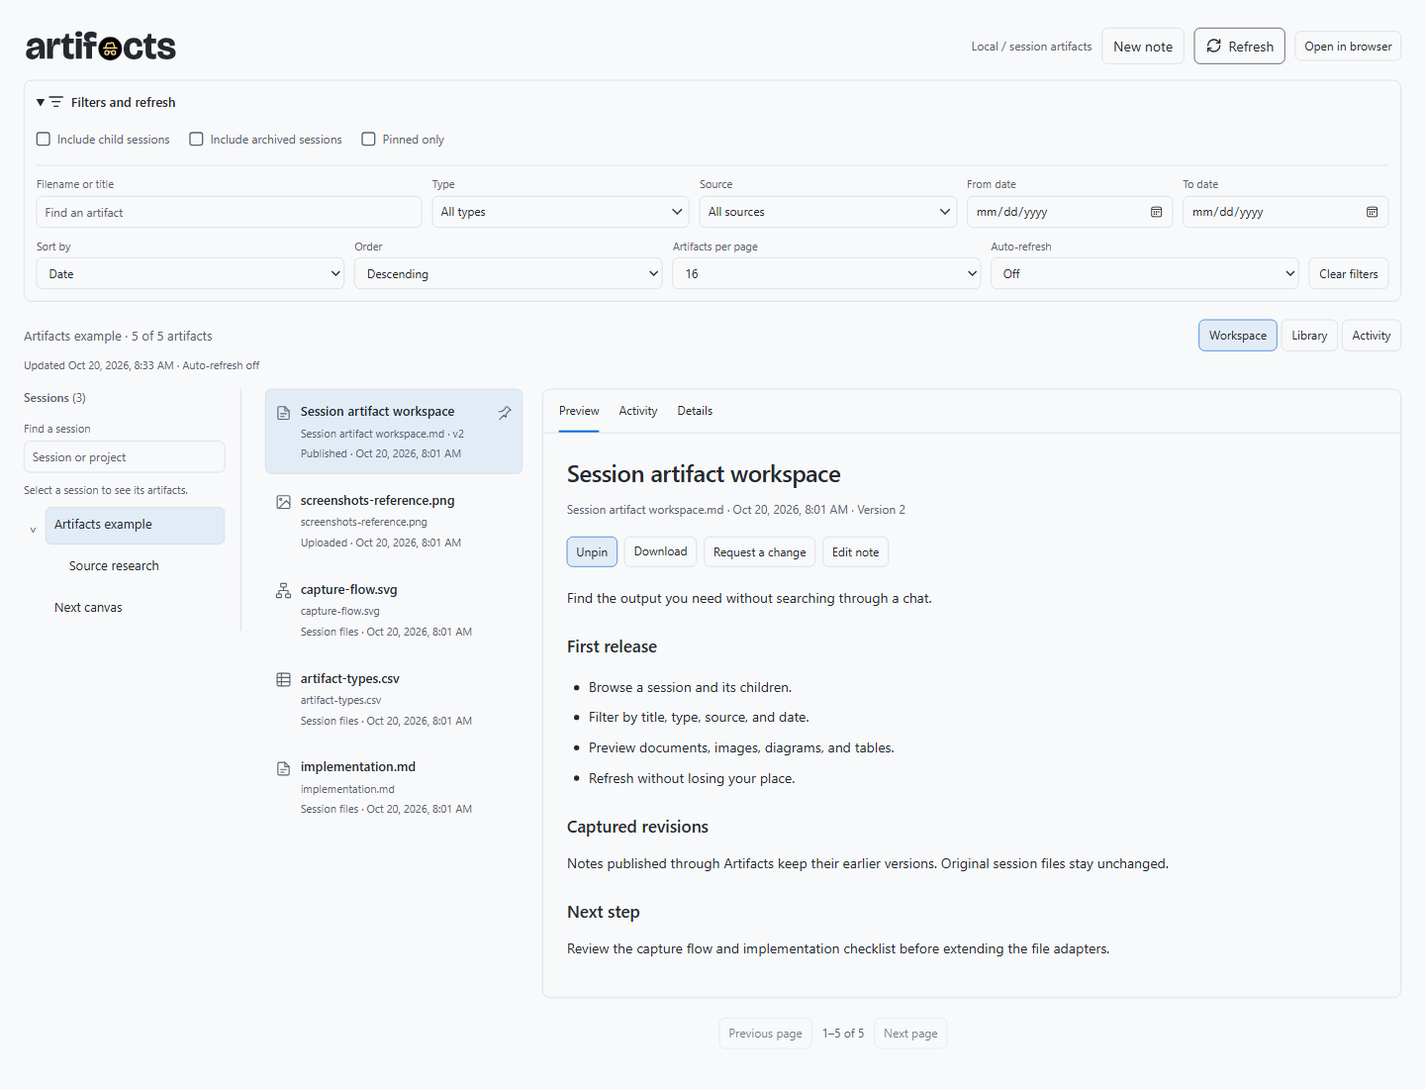
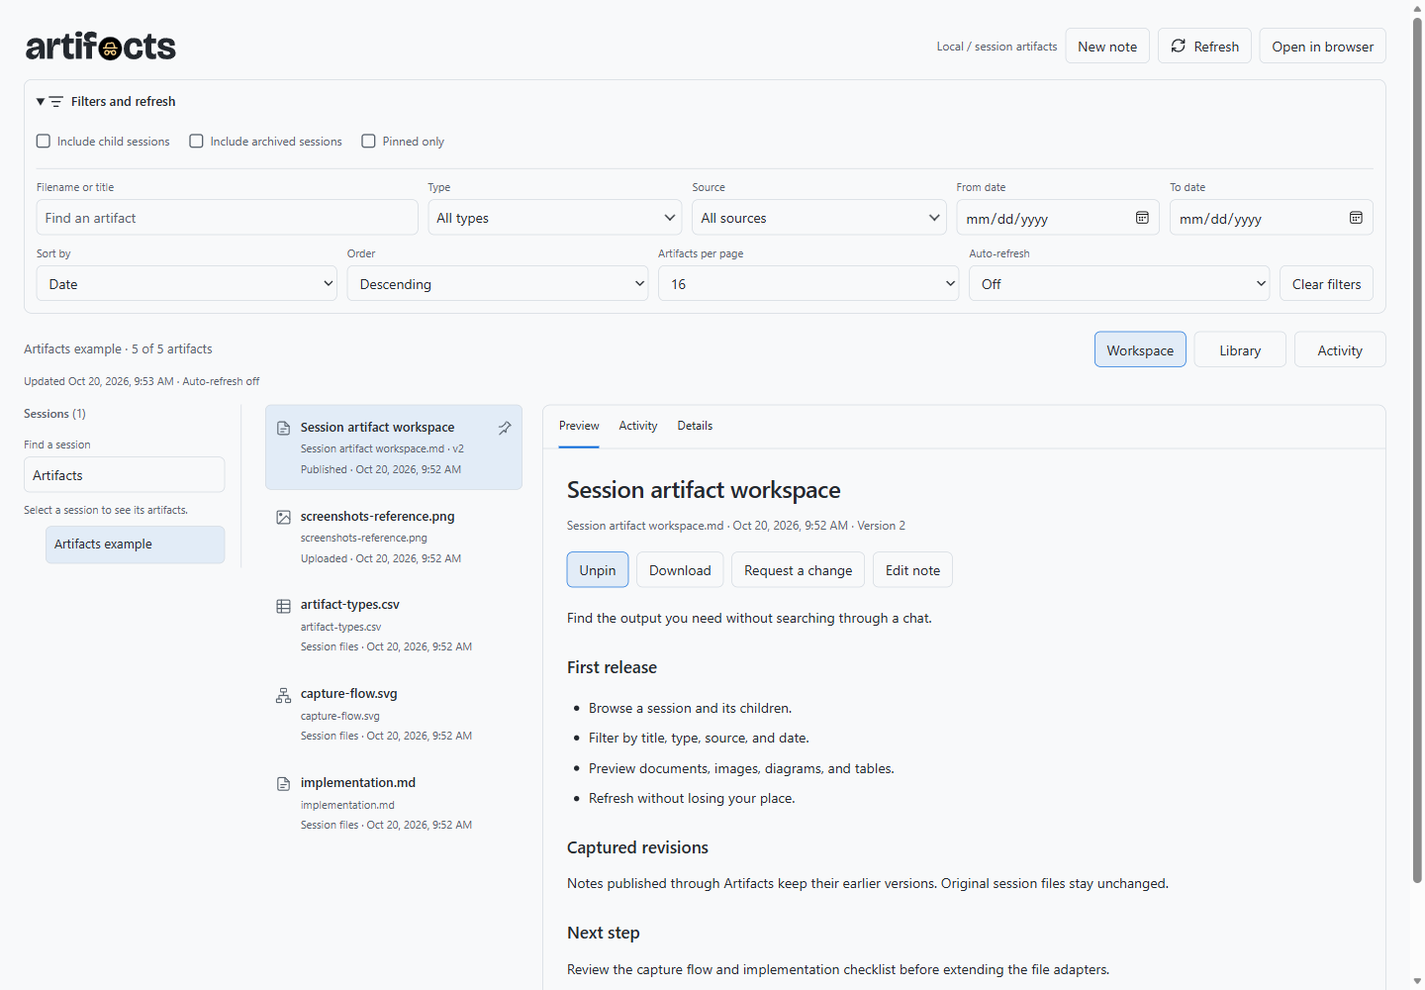
Unify Artifacts action control proportions
Copilot-Session: bf83cfd4-9425-4836-802c-3192a181469b

diff --git a/apps/artifacts/style.css b/apps/artifacts/style.css
@@ -9,6 +9,11 @@
     --hover: color-mix(in srgb, var(--ink) 5%, var(--surface));
     --selected: color-mix(in srgb, var(--accent) 9%, var(--surface));
     --paper: color-mix(in srgb, var(--surface) 97%, var(--ink));
+    --control-height: 36px;
+    --control-font-size: var(--text-body-medium, 14px);
+    --control-padding-x: 12px;
+    --control-radius: 6px;
+    --control-gap: 8px;
 }
 @media (prefers-color-scheme: dark) {
     :root { --surface: var(--background-color-default, #1b1e22); --ink: var(--text-color-default, #e4e8ec); --muted: var(--text-color-muted, #a0a9b4); --edge: var(--border-color-default, #454d57); --accent: var(--color-focus-outline, #75b5ff); --error: var(--true-color-red, #ef9c9c); }
@@ -29,15 +34,21 @@ h3 { font-size: 14px; font-weight: 600; }
 .browser-status { margin: 8px 0; overflow-wrap: anywhere; }
 button, input, select, textarea { font: inherit; color: inherit; }
 button, .download-link { border: 1px solid var(--edge); border-radius: 6px; background: var(--surface); padding: 7px 11px; cursor: pointer; white-space: nowrap; min-height: 34px; color: var(--ink); text-decoration: none; }
+button.control-button, a.control-button {
+    display: inline-flex; align-items: center; justify-content: center; gap: var(--control-gap);
+    height: var(--control-height); min-height: var(--control-height); min-width: var(--control-height);
+    padding: 0 var(--control-padding-x); font-size: var(--control-font-size); font-weight: 400;
+    line-height: var(--leading-body-medium, 20px); border-radius: var(--control-radius);
+    border: 1px solid var(--edge); background: var(--surface); color: var(--ink); white-space: nowrap;
+}
+.header-actions, .control-actions, .view-switch, .reader-actions, .pagination, .dialog-actions, .picker-search-row, .picker-footer, .image-tools { gap: var(--control-gap); }
 button:hover, .download-link:hover { background: var(--hover); }
 button:active { transform: translateY(1px); }
 button:disabled { opacity: .6; cursor: default; }
 button:focus-visible, a:focus-visible, input:focus-visible, select:focus-visible, textarea:focus-visible, summary:focus-visible { outline: 2px solid var(--accent); outline-offset: 3px; }
 button[aria-pressed="true"] { background: var(--selected); border-color: var(--accent); }
-#refresh, #save-note { border-color: var(--ink); }
-#open-browser { font-size: 12px; min-height: 30px; padding: 4px 9px; }
 input:not([type="checkbox"]), select, textarea { width: 100%; min-width: 0; padding: 4px 8px; border: 1px solid var(--edge); border-radius: 6px; background: var(--surface); }
-input:not([type="checkbox"]), select { height: 32px; font-size: 12px; }
+input:not([type="checkbox"]), select { height: var(--control-height); font-size: var(--control-font-size); line-height: var(--leading-body-medium, 20px); }
 input::placeholder, textarea::placeholder { color: var(--muted); opacity: 1; }
 .field { min-width: 0; }
 .field > label { display: block; color: var(--muted); font-size: 11px; margin-bottom: 4px; }
@@ -49,16 +60,15 @@ input::placeholder, textarea::placeholder { color: var(--muted); opacity: 1; }
 .artifact-controls { grid-template-columns: minmax(180px, 1.5fr) repeat(2, minmax(125px, 1fr)) repeat(2, minmax(125px, .8fr)); }
 .display-controls { grid-template-columns: repeat(4, minmax(105px, 1fr)) auto; }
 .session-controls { display: flex; flex-wrap: wrap; gap: 8px 20px; padding-bottom: 10px; margin-bottom: 10px; border-bottom: 1px solid var(--edge); }
-.check-filter { display: flex; align-items: center; gap: 7px; min-height: 32px; font-size: 12px; color: var(--muted); cursor: pointer; }
+.check-filter { display: flex; align-items: center; gap: 7px; min-height: var(--control-height); font-size: 12px; color: var(--muted); cursor: pointer; }
 .check-filter input { appearance: none; display: grid; place-content: center; flex: 0 0 14px; width: 14px; height: 14px; margin: 0; border: 1.5px solid var(--muted); border-radius: 3px; background: transparent; cursor: pointer; }
 .check-filter input:checked { border-color: var(--accent); }
 .check-filter input:checked::before { content: ""; width: 4px; height: 7px; border: solid var(--accent); border-width: 0 1.5px 1.5px 0; transform: translateY(-1px) rotate(45deg); }
-.field .multi-select > summary { min-height: 32px; padding: 4px 8px; font-size: 12px; line-height: 22px; }
+.field .multi-select > summary { height: var(--control-height); min-height: var(--control-height); padding: 0 8px; font-size: var(--control-font-size); line-height: var(--leading-body-medium, 20px); }
 .control-actions { justify-self: end; }
-.control-actions button, .view-switch button { font-size: 12px; min-height: 32px; padding: 5px 10px; }
 .overview { flex-wrap: wrap; margin: 18px 0 6px; color: var(--muted); font-size: 13px; }
 .overview p { margin: 0; }
-.view-switch { gap: 4px; }
+.view-switch { display: inline-grid; grid-template-columns: repeat(3, minmax(0, 1fr)); max-width: 100%; }
 #sync { min-height: 18px; margin: 0 0 14px; font-size: 11px; }
 .notice { padding: 10px 12px; border: 1px solid var(--edge); border-radius: 6px; font-size: 12px; overflow-wrap: anywhere; margin: 10px 0; }
 .notice summary { cursor: pointer; }
@@ -80,18 +90,16 @@ input::placeholder, textarea::placeholder { color: var(--muted); opacity: 1; }
 .session-meta { display: block; font-size: 11px; color: var(--muted); margin-top: 3px; overflow-wrap: anywhere; }
 .artifact-area { min-width: 0; }
 .compact-picker { display: none; margin-bottom: 14px; }
-#session-picker { display: flex; align-items: center; gap: 10px; width: 100%; min-width: 0; min-height: 36px; text-align: left; font-size: 13px; }
+#session-picker { width: 100%; min-width: 0; text-align: left; }
 #session-picker-value { flex: 1; min-width: 0; overflow: hidden; text-overflow: ellipsis; white-space: nowrap; }
 #session-picker::after { content: ""; flex: 0 0 6px; width: 6px; height: 6px; border-right: 1.5px solid var(--muted); border-bottom: 1.5px solid var(--muted); transform: translateY(-2px) rotate(45deg); }
 #session-picker[aria-expanded="true"]::after { transform: translateY(2px) rotate(225deg); }
 .session-popover { position: fixed; z-index: 20; display: flex; flex-direction: column; width: 320px; max-height: 480px; min-height: 0; overflow: hidden; color: var(--ink); background: var(--surface); border: 1px solid var(--edge); border-radius: 8px; box-shadow: 0 8px 28px #0003; }
 .picker-head, .picker-footer { flex: 0 0 auto; padding: 12px; }
 .picker-head { border-bottom: 1px solid var(--edge); }
-.picker-search-row { display: flex; align-items: center; gap: 8px; }
-.picker-search-row input { min-height: 36px; font-size: 13px; }
-.picker-search-row button, .picker-footer button { min-height: 34px; font-size: 12px; }
+.picker-search-row { display: flex; align-items: center; }
 #session-picker-count { margin: 8px 0 0; font-size: 12px; color: var(--muted); }
-.picker-footer { display: flex; flex-wrap: wrap; justify-content: space-between; gap: 8px; border-top: 1px solid var(--edge); }
+.picker-footer { display: flex; flex-wrap: wrap; justify-content: space-between; border-top: 1px solid var(--edge); }
 #session-options { position: relative; flex: 1 1 auto; min-height: 0; padding: 4px; overflow-x: hidden; overflow-y: scroll; overscroll-behavior: contain; scrollbar-gutter: stable; }
 #session-options:focus { outline: none; }
 #session-options, #session-tree { scrollbar-width: auto; scrollbar-color: var(--muted) var(--hover); }
@@ -124,8 +132,7 @@ input::placeholder, textarea::placeholder { color: var(--muted); opacity: 1; }
 #reader-content { padding: 24px; max-height: 75vh; overflow: auto; overflow-wrap: anywhere; }
 .document-title { font-size: 24px; font-weight: 600; letter-spacing: -.4px; line-height: 1.35; margin: 0 0 9px; }
 .document-file { font-size: 12px; color: var(--muted); margin-bottom: 18px; overflow-wrap: anywhere; }
-.reader-actions { flex-wrap: wrap; gap: 7px; margin: 18px 0; }
-.reader-actions button, .reader-actions a { font-size: 12px; min-height: 31px; padding: 5px 9px; }
+.reader-actions { flex-wrap: wrap; margin: 18px 0; }
 .prose { font-size: 14px; line-height: 1.75; }
 .prose h2 { font-size: 20px; line-height: 1.4; margin: 25px 0 12px; }
 .prose h3 { font-size: 17px; margin: 22px 0 10px; }
@@ -142,7 +149,6 @@ code, pre, textarea#note-content { font-family: var(--font-mono, "SFMono-Regular
 .image-frame { overflow: auto; max-height: 60vh; min-height: 120px; border: 1px solid var(--edge); border-radius: 6px; padding: 16px; background: var(--paper); }
 .image-frame img { display: block; max-width: 100%; height: auto; margin: auto; }
 .image-tools { justify-content: center; margin-bottom: 12px; }
-.image-tools button { padding: 3px 10px; min-height: 29px; font-size: 12px; }
 .image-tools span { font-size: 12px; color: var(--muted); font-variant-numeric: tabular-nums; }
 .table-scroll { overflow: auto; max-height: 60vh; }
 table { border-collapse: collapse; font-size: 12px; min-width: 100%; }
@@ -168,7 +174,6 @@ th { font-weight: 500; color: var(--muted); }
 .loading-lines span:nth-child(2) { width: 75%; }
 .loading-lines span:nth-child(3) { width: 88%; }
 .pagination { justify-content: center; margin: 20px 0 0; font-size: 12px; color: var(--muted); }
-.pagination button { min-height: 31px; padding: 5px 9px; font-size: 12px; }
 #surface[data-layout="library"] { display: block; }
 #surface[data-layout="library"] #artifact-list { display: grid; grid-template-columns: repeat(3, minmax(0, 1fr)); gap: 16px; }
 #surface[data-layout="library"] #reader { display: none; }
@@ -195,7 +200,6 @@ dialog::backdrop { background: #0006; }
 dialog label { display: block; margin: 16px 0 6px; font-size: 13px; }
 dialog textarea { padding: 10px; resize: vertical; }
 .dialog-actions { justify-content: end; margin-top: 18px; }
-#note-title { height: 36px; font-size: 14px; }
 @media (max-width: 1180px) {
     #surface { grid-template-columns: minmax(175px, 215px) minmax(0, 1fr); gap: 14px; }
     #surface[data-layout="library"] #artifact-list { grid-template-columns: repeat(2, minmax(0, 1fr)); }
@@ -212,8 +216,8 @@ dialog textarea { padding: 10px; resize: vertical; }
     #reader-content { padding: 20px; }
 }
 @media (max-width: 680px) {
+    :root { --control-height: 44px; --control-padding-x: 10px; }
     main { padding: 18px 16px; }
-    #session-picker, .picker-search-row input, .picker-search-row button, .picker-footer button { min-height: 44px; }
     .picker-name { font-size: 14px; }
     header { align-items: start; flex-wrap: wrap; }
     .header-actions { justify-content: start; }
@@ -222,8 +226,6 @@ dialog textarea { padding: 10px; resize: vertical; }
     .artifact-controls .field:first-child { grid-column: 1 / -1; }
     .display-controls { grid-template-columns: repeat(2, minmax(0, 1fr)); }
     .overview { align-items: start; gap: 12px; }
-    .view-switch { flex-wrap: wrap; }
-    .view-switch button { min-height: 40px; font-size: 13px; }
     #surface, #surface[data-layout="activity"] { display: block; }
     #surface #reader { display: none; }
     #surface.show-detail #reader { display: block; }
@@ -239,9 +241,7 @@ dialog textarea { padding: 10px; resize: vertical; }
     .document-title { font-size: 22px; }
     .artifact-details { grid-template-columns: 88px minmax(0, 1fr); }
     #reader-content { max-height: none; padding: 18px; }
-    .reader-actions button, .reader-actions a { min-height: 40px; }
     .pagination { flex-wrap: wrap; }
-    .pagination button { min-height: 40px; }
     .card-preview { height: 175px; }
     dialog { padding: 20px; }
 }

diff --git a/apps/artifacts/index.html b/apps/artifacts/index.html
@@ -19,9 +19,9 @@
         <h1 class="app-wordmark" aria-label="Artifacts"><span class="visually-hidden">Artifacts</span>__APP_WORDMARK__</h1>
         <div class="header-actions">
             <span class="local-label">Local / session artifacts</span>
-            <button id="new-note" type="button" disabled>New note</button>
-            <button id="refresh" class="refresh-control" type="button">Refresh</button>
-            <button id="open-browser" type="button">Open in browser</button>
+            <button id="new-note" class="control-button" type="button" disabled>New note</button>
+            <button id="refresh" class="control-button refresh-control" type="button">Refresh</button>
+            <button id="open-browser" class="control-button" type="button">Open in browser</button>
         </div>
     </header>
     <p id="browser-status" class="browser-status" role="status" hidden></p>
@@ -48,13 +48,13 @@
             <div class="field"><label for="order">Order</label><select id="order"><option value="desc">Descending</option><option value="asc">Ascending</option></select></div>
             <div class="field"><label for="page-size">Artifacts per page</label><select id="page-size"><option>8</option><option selected>16</option><option>32</option></select></div>
             <div class="field"><label for="auto-refresh">Auto-refresh</label><select id="auto-refresh"><option value="0">Off</option><option value="5000">5 seconds</option><option value="10000">10 seconds</option><option value="30000">30 seconds</option><option value="60000">1 minute</option><option value="300000">5 minutes</option></select></div>
-            <div class="control-actions"><button id="clear-filters" type="button">Clear filters</button></div>
+            <div class="control-actions"><button id="clear-filters" class="control-button" type="button">Clear filters</button></div>
         </div>
         <p id="filter-error" class="error-text" role="alert" hidden></p>
     </details>
     <div class="overview">
         <p id="scope-summary">Loading sessions...</p>
-        <div class="view-switch" role="group" aria-label="Artifact view"><button data-layout="workspace" aria-pressed="true">Workspace</button><button data-layout="library" aria-pressed="false">Library</button><button data-layout="activity" aria-pressed="false">Activity</button></div>
+        <div class="view-switch" role="group" aria-label="Artifact view"><button class="control-button" type="button" data-layout="workspace" aria-pressed="true">Workspace</button><button class="control-button" type="button" data-layout="library" aria-pressed="false">Library</button><button class="control-button" type="button" data-layout="activity" aria-pressed="false">Activity</button></div>
     </div>
     <p id="sync" class="muted" role="status"></p>
     <div id="error" class="notice error-text" role="alert" hidden></div>
@@ -68,7 +68,7 @@
         </aside>
         <section class="artifact-area">
             <div class="field compact-picker"><label id="session-picker-label" for="session-picker">Session</label>
-                <button id="session-picker" type="button" aria-labelledby="session-picker-label session-picker-value" aria-haspopup="dialog" aria-expanded="false" aria-controls="session-menu" disabled><span id="session-picker-value">Choose a session</span></button>
+                <button id="session-picker" class="control-button" type="button" aria-labelledby="session-picker-label session-picker-value" aria-haspopup="dialog" aria-expanded="false" aria-controls="session-menu" disabled><span id="session-picker-value">Choose a session</span></button>
             </div>
             <div id="surface" data-layout="workspace">
                 <section id="artifact-list" aria-label="Artifacts" aria-busy="true"><div class="load-state" role="status"><span class="loading-spinner" aria-hidden="true"></span><h2>Loading artifacts...</h2><p>Reading local session data.</p></div></section>
@@ -79,7 +79,7 @@
                     <div id="reader-content"><div class="load-state" role="status"><span class="loading-spinner" aria-hidden="true"></span><h2>Preparing the preview...</h2><p>The preview will appear when the files are ready.</p></div></div>
                 </section>
             </div>
-            <div class="pagination"><button id="previous-page" type="button">Previous page</button><span id="page-summary"></span><button id="next-page" type="button">Next page</button></div>
+            <div class="pagination"><button id="previous-page" class="control-button" type="button">Previous page</button><span id="page-summary"></span><button id="next-page" class="control-button" type="button">Next page</button></div>
         </section>
     </div>
 </main>
@@ -87,32 +87,32 @@
     <div class="picker-head">
         <div class="picker-search-row">
             <input id="session-picker-search" type="search" role="combobox" aria-label="Search sessions or projects" aria-controls="session-options" aria-expanded="false" aria-autocomplete="list" aria-describedby="session-picker-help" placeholder="Session or project" autocomplete="off">
-            <button id="session-picker-close" type="button" aria-label="Close session picker">Close</button>
+            <button id="session-picker-close" class="control-button" type="button" aria-label="Close session picker">Close</button>
         </div>
         <p id="session-picker-count" role="status"></p>
         <span id="session-picker-help" class="visually-hidden">Use arrow keys to move through sessions and Enter to select. Escape closes the picker. Home and End work when the list is focused.</span>
     </div>
     <div id="session-options" class="session-scroll" role="listbox" aria-label="Sessions" tabindex="0"></div>
     <div class="picker-footer">
-        <button id="session-picker-current" type="button" title="Clear search and reveal the selected session">Show selected</button>
-        <button id="session-picker-top" type="button" title="Scroll the session list to the top">Back to top</button>
+        <button id="session-picker-current" class="control-button" type="button" title="Clear search and reveal the selected session">Show selected</button>
+        <button id="session-picker-top" class="control-button" type="button" title="Scroll the session list to the top">Back to top</button>
     </div>
 </div>
 <dialog id="note-dialog">
     <form id="note-form">
-        <div class="dialog-heading"><h2 id="note-heading">New note</h2><button type="button" id="close-note" aria-label="Close note editor">Close</button></div>
+        <div class="dialog-heading"><h2 id="note-heading">New note</h2><button type="button" id="close-note" class="control-button" aria-label="Close note editor">Close</button></div>
         <p class="muted">Saved in Artifacts. Original session files stay unchanged.</p>
         <label for="note-title">Title</label><input id="note-title" maxlength="200" required>
         <label for="note-content">Markdown</label><textarea id="note-content" rows="16" required></textarea>
         <p id="note-error" class="error-text" role="alert" hidden></p>
-        <div class="dialog-actions"><button type="button" id="cancel-note">Cancel</button><button id="save-note" type="submit">Save note</button></div>
+        <div class="dialog-actions"><button type="button" id="cancel-note" class="control-button">Cancel</button><button id="save-note" class="control-button" type="submit">Save note</button></div>
     </form>
 </dialog>
 <dialog id="request-dialog">
-    <div class="dialog-heading"><h2>Request a change</h2><button type="button" id="close-request" aria-label="Close request">Close</button></div>
+    <div class="dialog-heading"><h2>Request a change</h2><button type="button" id="close-request" class="control-button" aria-label="Close request">Close</button></div>
     <p class="muted">Copy this request into Copilot chat. No message is sent from this canvas.</p>
     <label for="request-content">Request</label><textarea id="request-content" rows="10"></textarea>
-    <p id="copy-status" role="status"></p><div class="dialog-actions"><button type="button" id="copy-request">Copy request</button></div>
+    <p id="copy-status" role="status"></p><div class="dialog-actions"><button type="button" id="copy-request" class="control-button">Copy request</button></div>
 </dialog>
 </body>
 </html>

diff --git a/apps/artifacts/app.js b/apps/artifacts/app.js
@@ -29,7 +29,7 @@ const selected = () => state.records.find(record => record.id === state.view.sel
 const session = () => state.sessions.find(row => row.id === state.sessionId);
 const date = value => value && Number.isFinite(Date.parse(value)) ? new Date(value).toLocaleString([], { dateStyle: "medium", timeStyle: "short" }) : "Unknown date";
 const size = value => value == null ? "Size unavailable" : value < 1024 ? `${value} B` : value < 1048576 ? `${(value / 1024).toFixed(1)} KiB` : `${(value / 1048576).toFixed(1)} MiB`;
-const button = (action, text, attributes = "") => `<button type="button" data-action="${action}" ${attributes}>${text}</button>`;
+const button = (action, text, attributes = "", className = "control-button") => `<button type="button" class="${className}" data-action="${action}" ${attributes}>${text}</button>`;
 const fileUrl = (record, download = false) => {
     const url = new URL(`file/${record.id}`, location.href);
     if (download) url.searchParams.set("download", "true");
@@ -140,7 +140,7 @@ function renderSessions() {
     const rows = sessionTree(state.sessions, { search: state.sessionSearch, includeArchived: state.includeArchived }, state.collapsed);
     $("session-count").textContent = `(${rows.length})`;
     $("session-tree").innerHTML = rows.length ? rows.map(row => `<div class="session-row" style="--depth:${row.depth}">
-        ${row.childCount ? button("fold", state.collapsed.has(row.id) ? "›" : "⌄", `class="fold" data-id="${esc(row.id)}" aria-label="Toggle ${esc(row.name)} children" aria-expanded="${!state.collapsed.has(row.id)}"`) : '<span class="fold-spacer"></span>'}
+        ${row.childCount ? button("fold", state.collapsed.has(row.id) ? "›" : "⌄", `data-id="${esc(row.id)}" aria-label="Toggle ${esc(row.name)} children" aria-expanded="${!state.collapsed.has(row.id)}"`, "fold") : '<span class="fold-spacer"></span>'}
         <button type="button" class="session-button" data-action="session" data-id="${esc(row.id)}" aria-current="${row.id === state.sessionId}">
         <span class="session-name">${esc(row.name)}</span><span class="session-meta">${esc([row.project, row.location !== "local" ? row.location : null, row.archived ? "Archived" : null].filter(Boolean).join(" · "))}</span></button></div>`).join("") : '<p class="empty">No matching sessions.</p>';
     sessionPicker.update({ sessions: state.sessions, selectedId: state.sessionId, includeArchived: state.includeArchived });
@@ -219,7 +219,7 @@ function detailList(record) {
 function revisions(record, list) {
     return list.length ? `<div class="revision-list">${[...list].sort((a, b) => b.version - a.version).map(item =>
         button("revision", `<span>Version ${item.version}${item.version === record.version ? " · Latest" : ""}<span class="revision-time">${esc(date(item.timestamp))}</span></span>`,
-            `class="revision" data-version="${item.version}" aria-pressed="${item.version === (state.view.revision ?? record.version)}"`)).join("")}</div>` :
+            `data-version="${item.version}" aria-pressed="${item.version === (state.view.revision ?? record.version)}"`, "revision")).join("")}</div>` :
         '<p class="captured-note">This is a discovered file reference. Earlier file contents were not captured.</p>';
 }
 async function loadSelected(preserveScroll = false) {
@@ -246,7 +246,7 @@ async function loadSelected(preserveScroll = false) {
         state.content = result;
         const metadata = result.metadata;
         const actions = `<div class="reader-actions">${button("pin", record.pinned ? "Unpin" : "Pin", `aria-pressed="${record.pinned}"`)}
-            ${record.availability === "available" ? `<a class="download-link" href="${esc(fileUrl(record, true))}" download>Download</a>${button("request", "Request a change")}` : ""}
+            ${record.availability === "available" ? `<a class="control-button download-link" href="${esc(fileUrl(record, true))}" download>Download</a>${button("request", "Request a change")}` : ""}
             ${record.source === "published" && !state.view.revision ? button("edit", "Edit note") : ""}</div>`;
         const historyNotice = state.view.revision ? `<p class="notice">Captured version ${state.view.revision}. ${button("latest", "Back to latest")}</p>` : "";
         let body;

diff --git a/apps/artifacts/README.md b/apps/artifacts/README.md
@@ -61,7 +61,7 @@ The canvas exposes `list_sessions`, `query_artifacts`, `get_artifact`, `read_art
 Node 24+. No build step or package installation. From this folder:
 
 ```sh
-node --test model.test.mjs session-picker.test.mjs render.test.mjs refresh.test.mjs server.test.mjs source.test.mjs store.test.mjs extension.test.mjs
+node --test controls.test.mjs model.test.mjs session-picker.test.mjs render.test.mjs refresh.test.mjs server.test.mjs source.test.mjs store.test.mjs extension.test.mjs
 ```
 
 For a standalone browser view of real local data:
